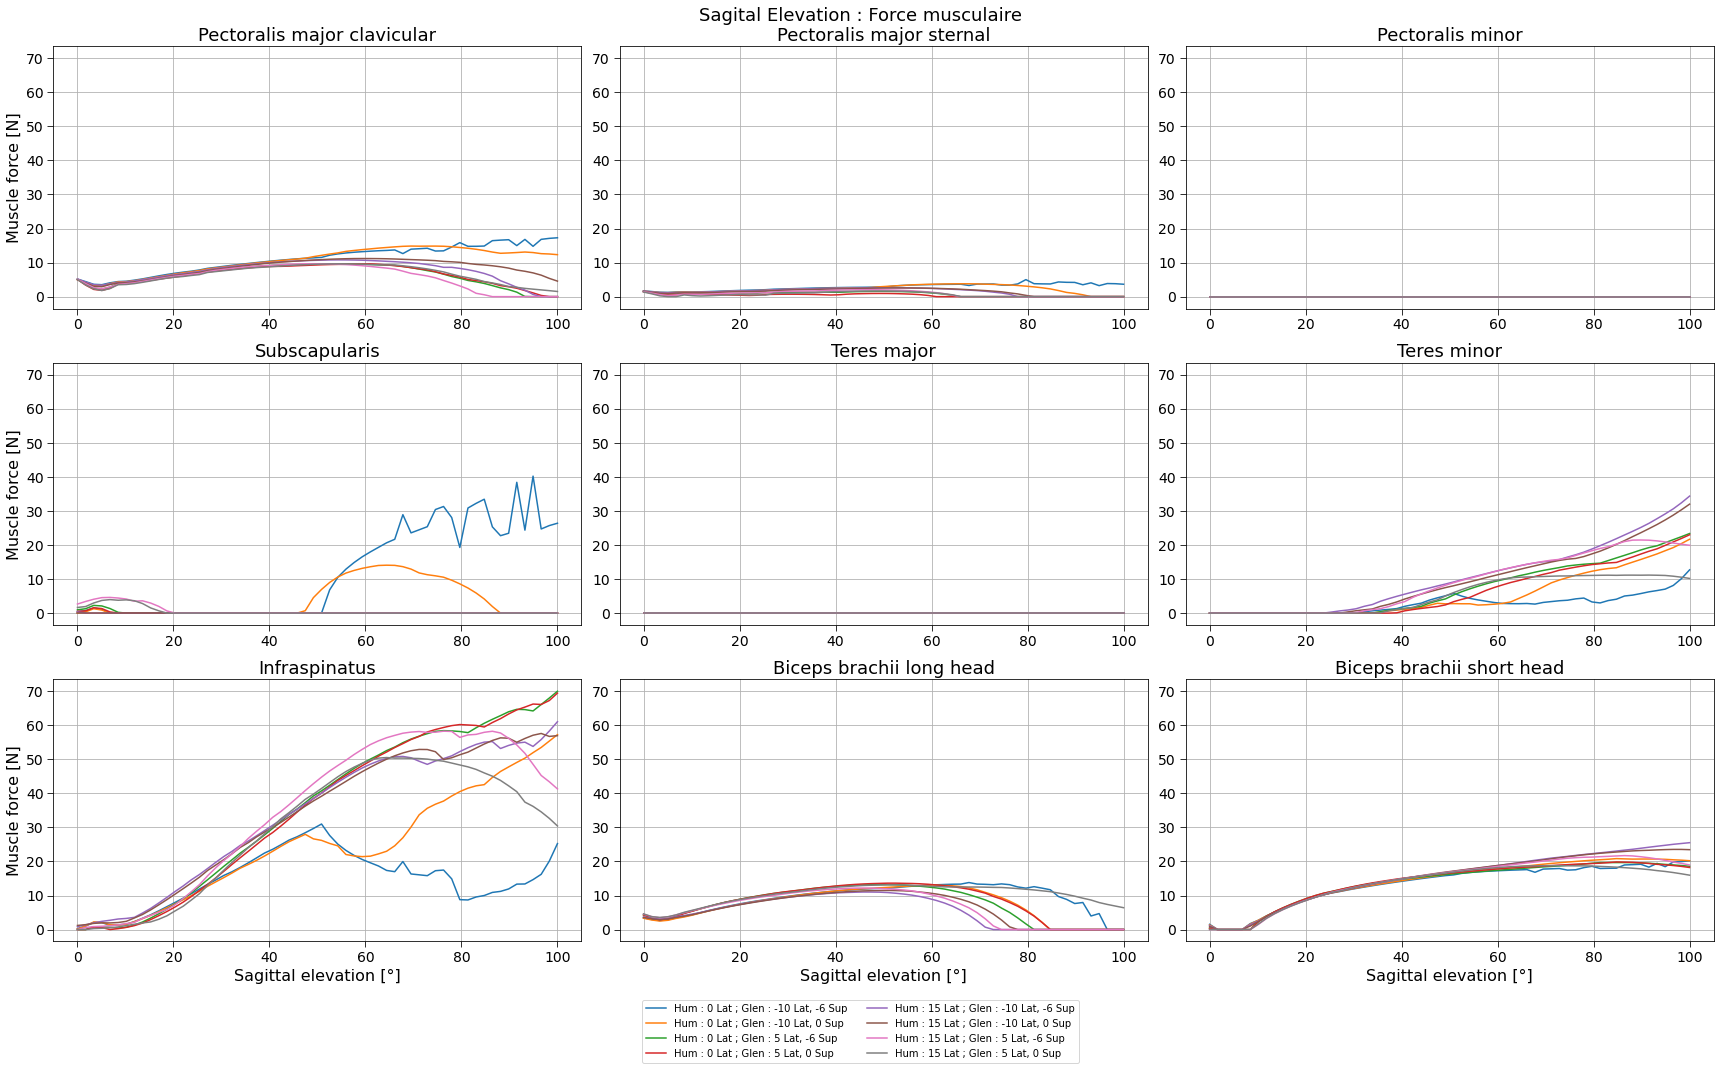
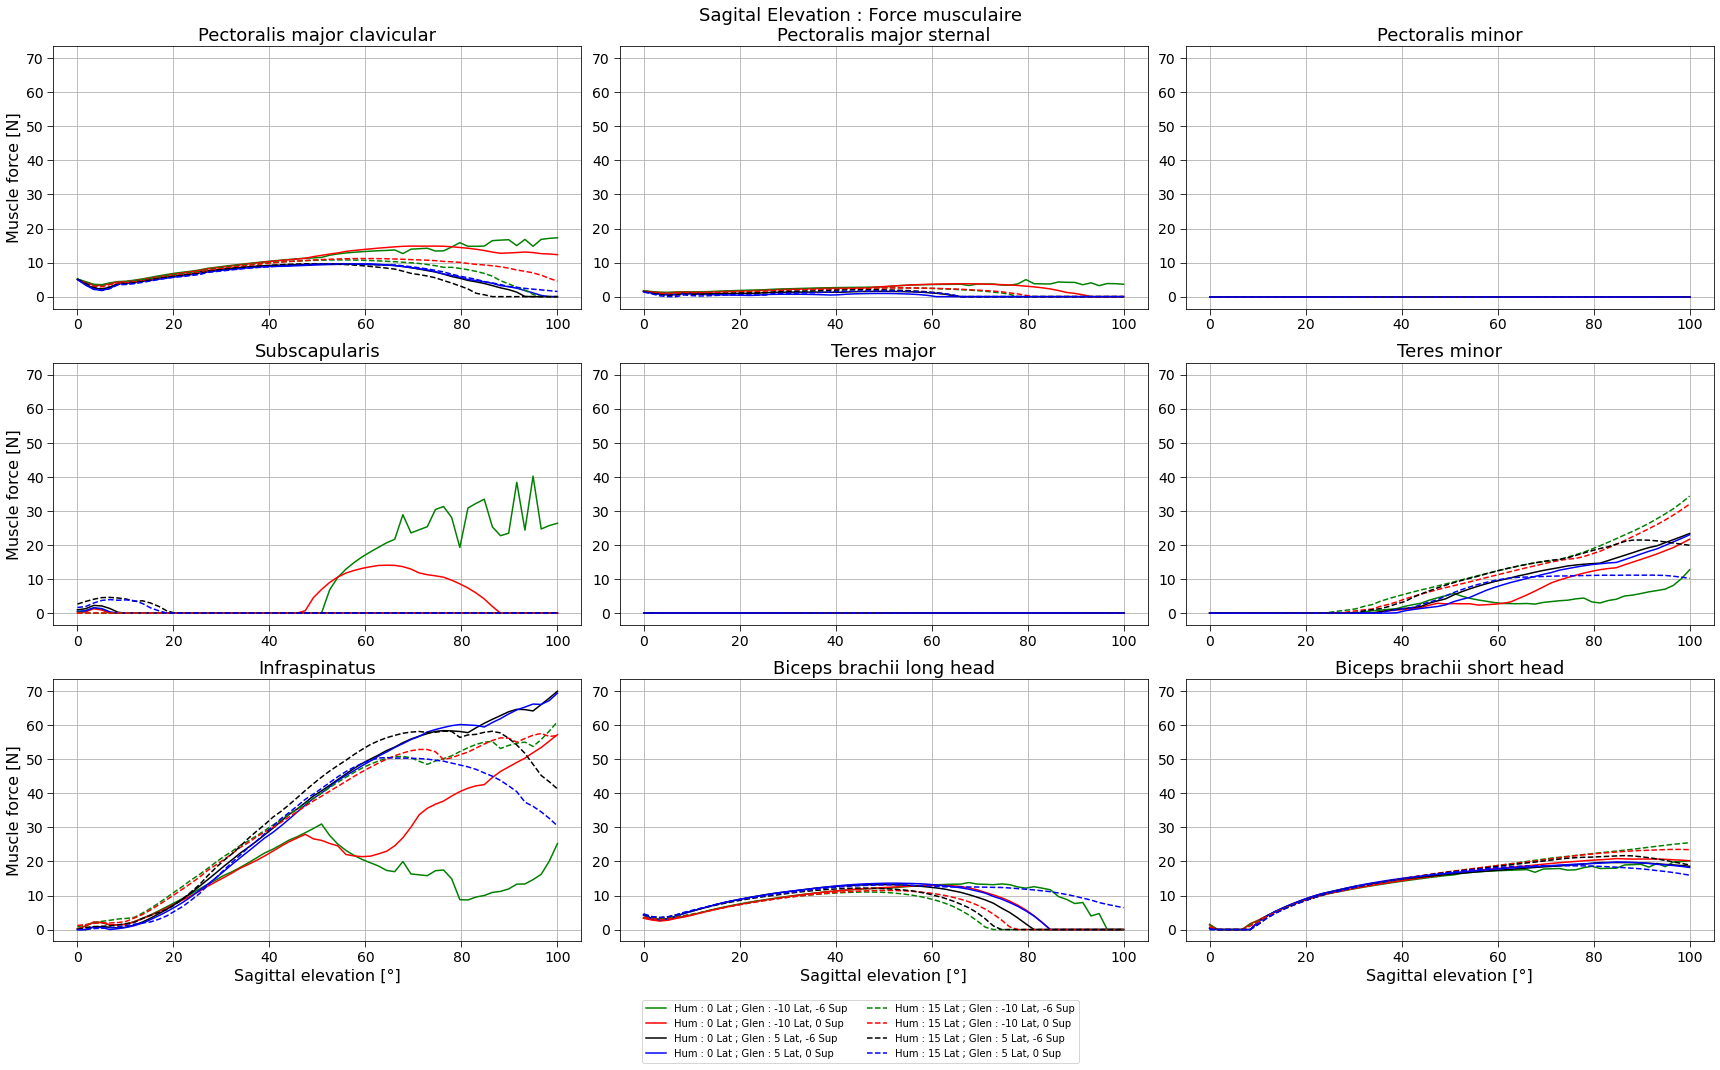
Graphiques avec couleurs

diff --git a/Output/graphiques.py b/Output/graphiques.py
@@ -46,9 +46,16 @@ matplotlib.rcParams.update({'legend.fontsize': 10})
 # Noms des couleurs : https://matplotlib.org/stable/gallery/color/named_colors.html
 # Types de marqueurs : https://matplotlib.org/stable/api/markers_api.html
 # Type de lignes : https://matplotlib.org/stable/gallery/lines_bars_and_markers/linestyles.html
-SimulationsLineStyleDictionary = {"NOM_DE_LA_SIMULATION_1": {"color": "NOM_DE_LA_COULEUR", "marker": "", "markersize": 1, "linestyle": "-", "linewidth": 1},
-                                  "NOM_DE_LA_SIMULATION_2": {"color": "NOM_DE_LA_COULEUR", "marker": "", "markersize": 1, "linestyle": "-", "linewidth": 1},
-                                  "Wickham": {"color": "black", "marker": "", "markersize": 1, "linestyle": "--", "linewidth": 2}
+SimulationsLineStyleDictionary = {"Hum : 0 Lat ; Glen : -10 Lat, 0 Sup": {"color": "red", "marker": "", "markersize": 1, "linestyle": "-", "linewidth": 1.5},
+                                  "Hum : 0 Lat ; Glen : -10 Lat, -6 Sup": {"color": "green", "marker": "", "markersize": 1, "linestyle": "-", "linewidth": 1.5},
+                                  "Hum : 0 Lat ; Glen : 5 Lat, 0 Sup": {"color": "blue", "marker": "", "markersize": 1, "linestyle": "-", "linewidth": 1.5},
+                                  "Hum : 0 Lat ; Glen : 5 Lat, -6 Sup": {"color": "black", "marker": "", "markersize": 1, "linestyle": "-", "linewidth": 1.5},
+
+                                  "Hum : 15 Lat ; Glen : -10 Lat, 0 Sup": {"color": "red", "marker": "", "markersize": 1, "linestyle": "--", "linewidth": 1.5},
+                                  "Hum : 15 Lat ; Glen : -10 Lat, -6 Sup": {"color": "green", "marker": "", "markersize": 1, "linestyle": "--", "linewidth": 1.5},
+                                  "Hum : 15 Lat ; Glen : 5 Lat, 0 Sup": {"color": "blue", "marker": "", "markersize": 1, "linestyle": "--", "linewidth": 1.5},
+                                  "Hum : 15 Lat ; Glen : 5 Lat, -6 Sup": {"color": "black", "marker": "", "markersize": 1, "linestyle": "--", "linewidth": 1.5},
+
                                   }
 
 # Texte de description des simulations dans les légendes
